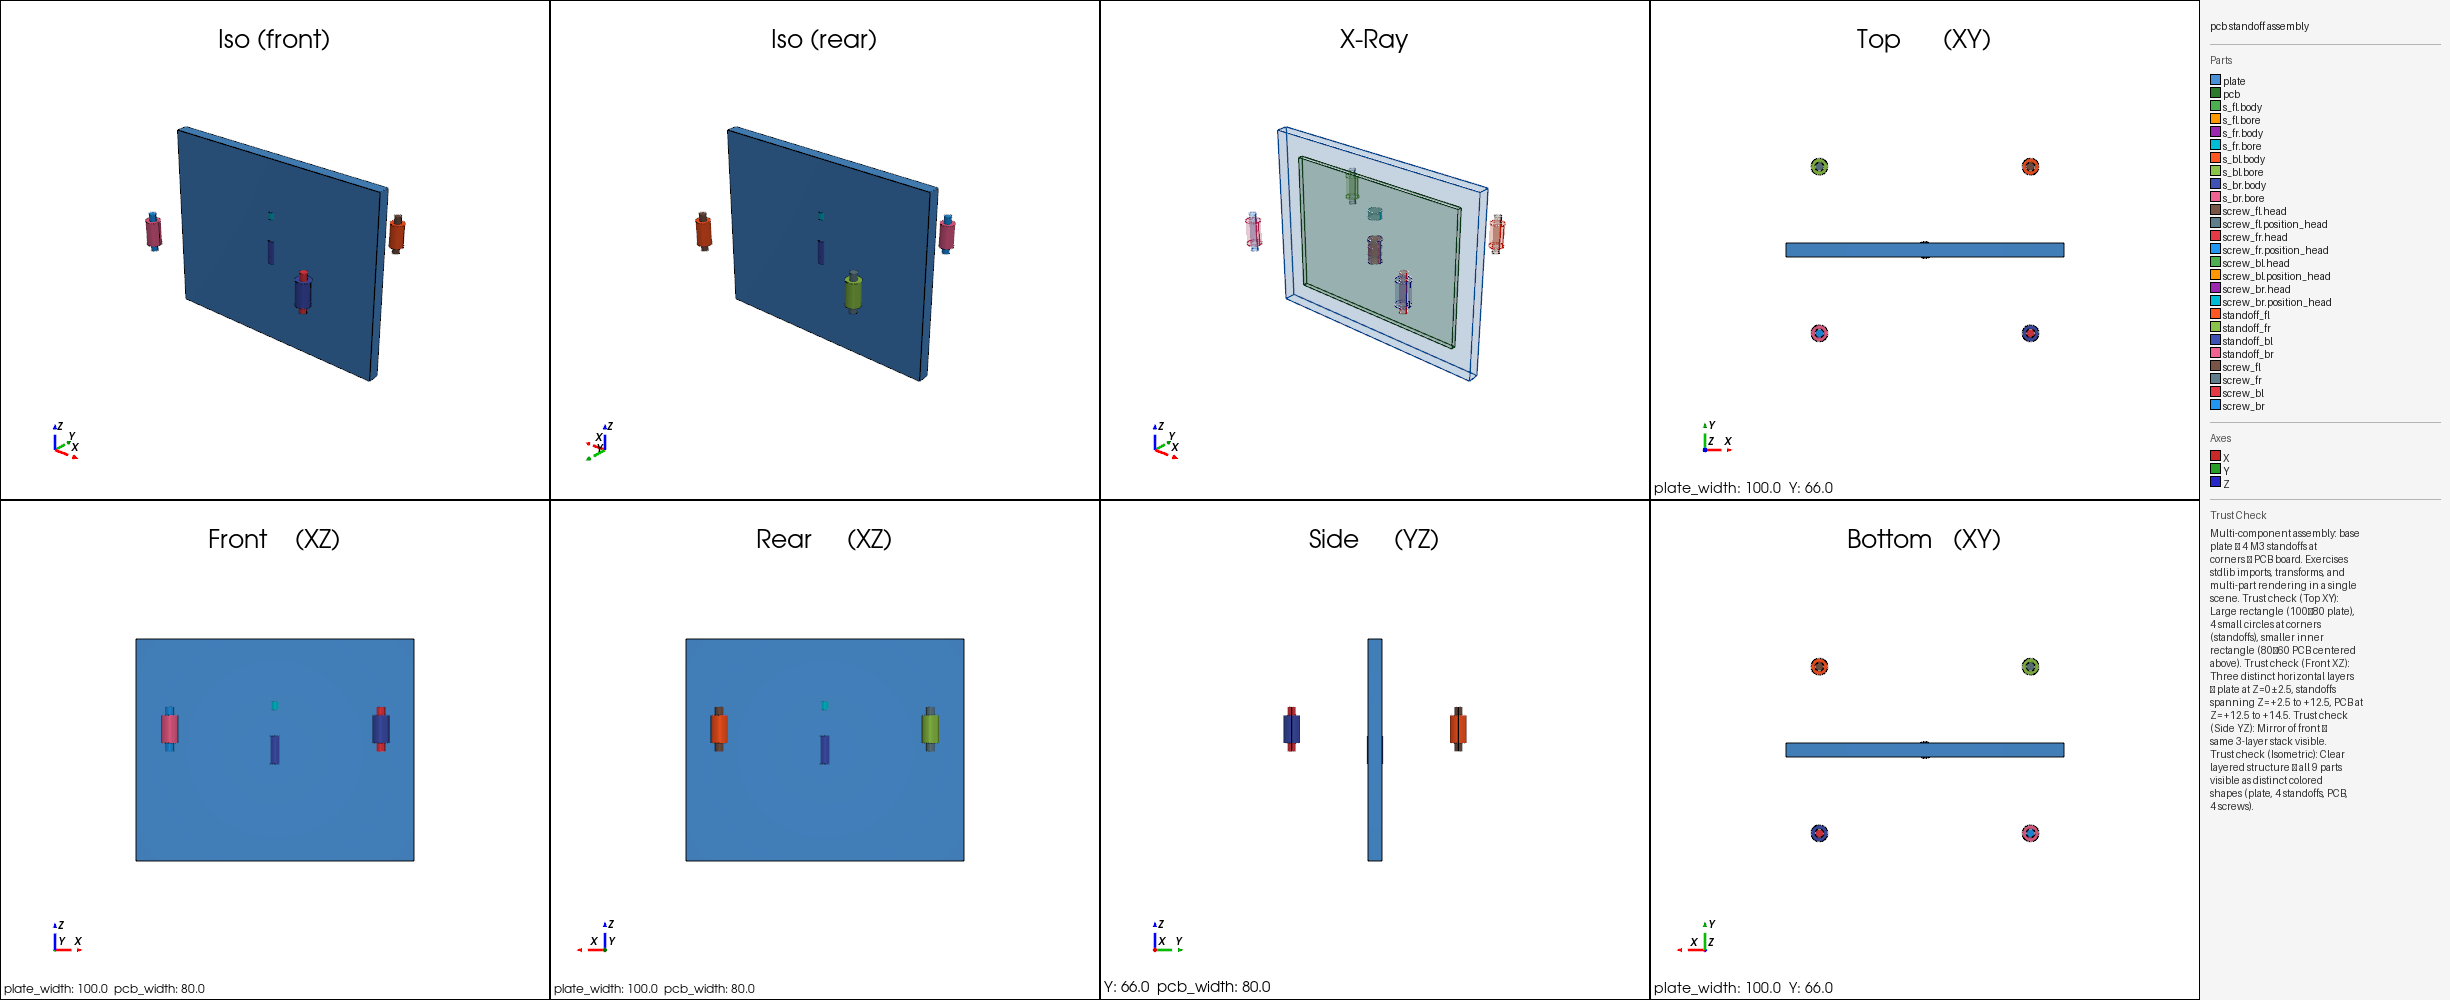
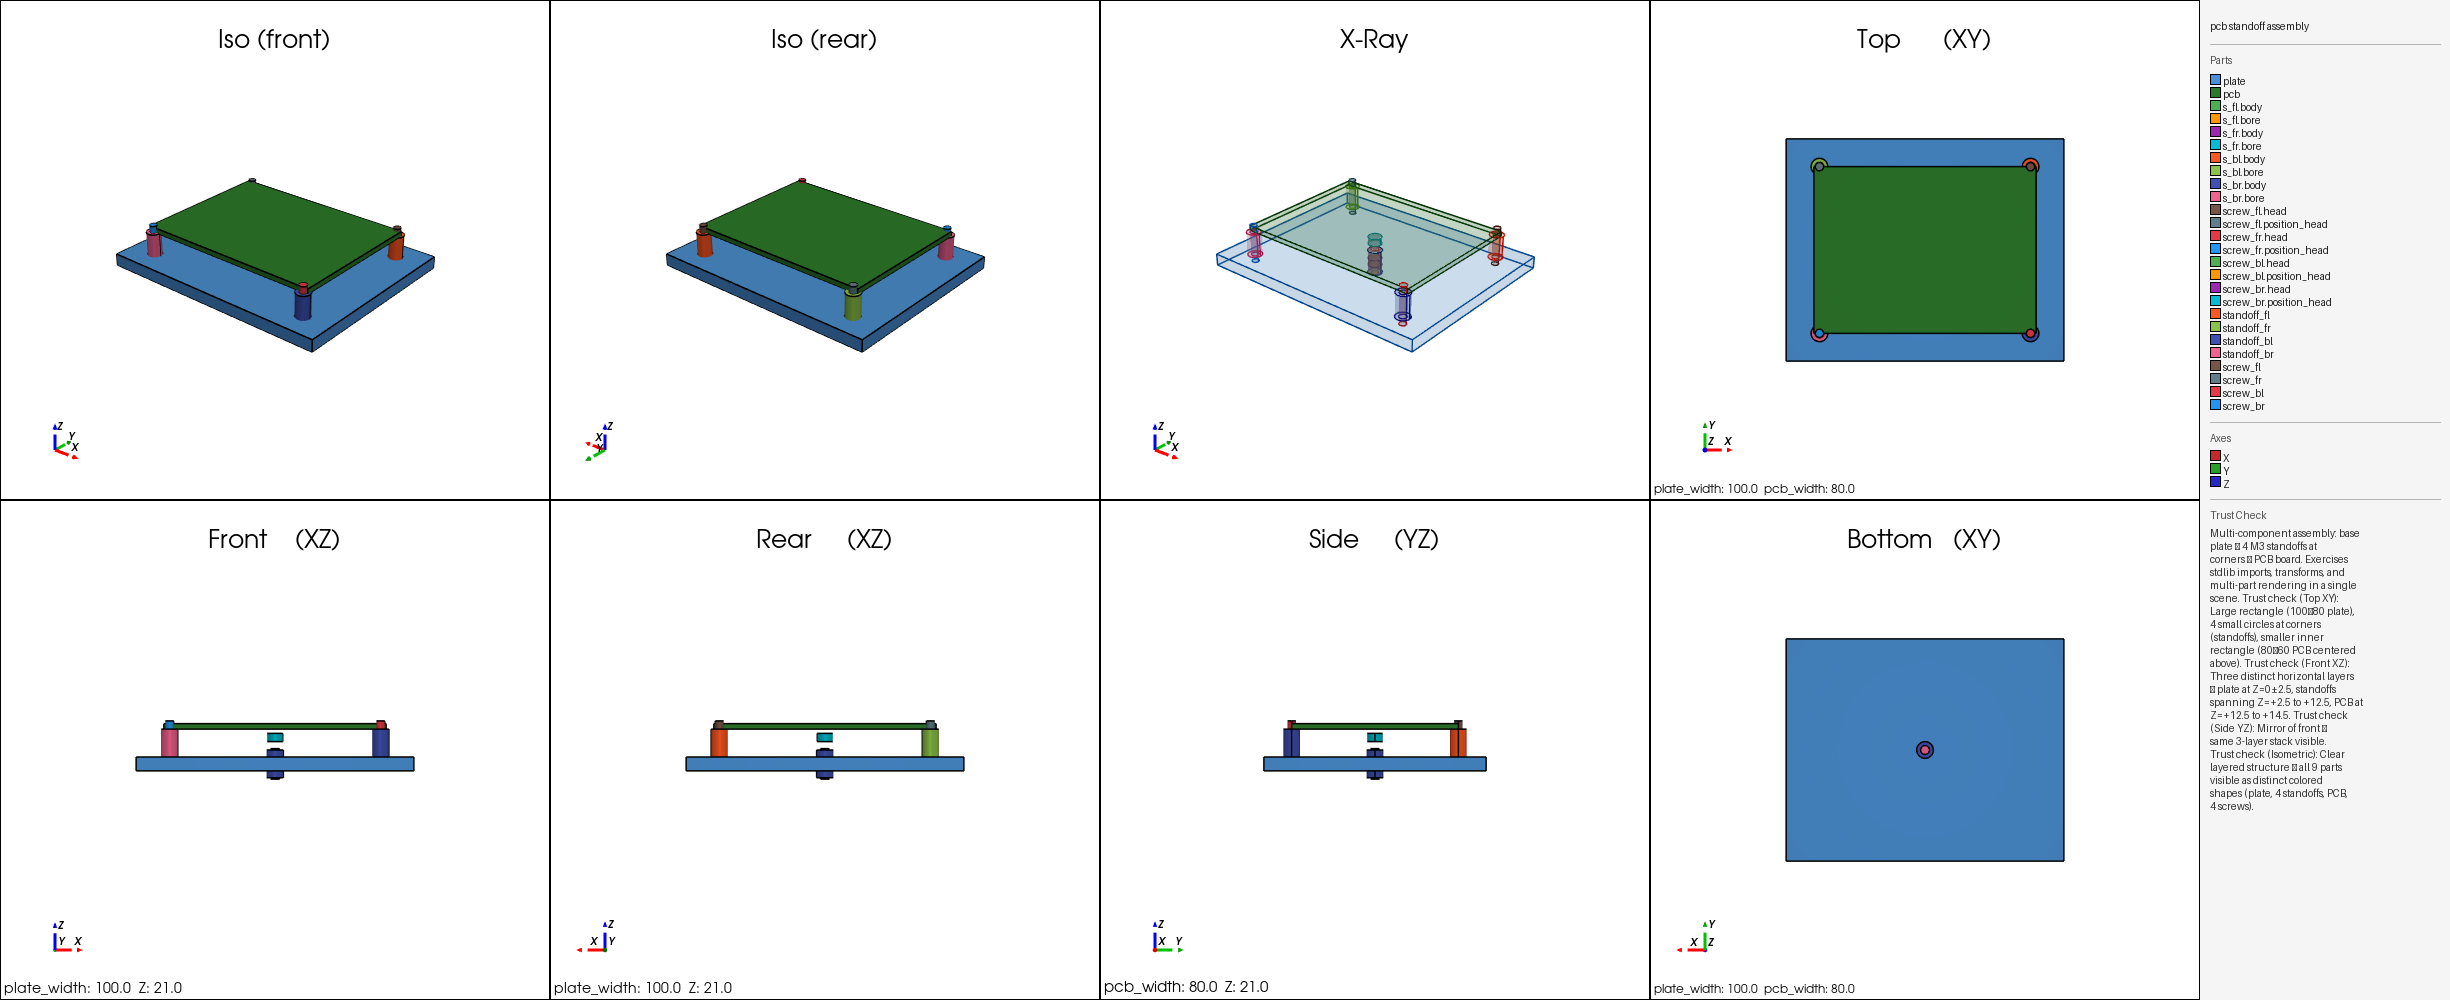
fix(trust): correct plate/pcb axis swap in pcb_standoff_assembly
The box primitive maps width->X, depth->Y, height->Z, but the plate
and pcb parts had height/depth swapped, rendering as a vertical wall
instead of a flat plate. Found via the trust-gallery visual review
(a volume-only check can't catch this — swapping which axis is
"thickness" doesn't change the volume). Documented as
KNOWN_LIMITATIONS.md #13.

diff --git a/KNOWN_LIMITATIONS.md b/KNOWN_LIMITATIONS.md
@@ -494,6 +494,14 @@ regression-risky). See `tiacad_core/tests/test_correctness/test_negative_contrac
 
 ---
 
+### 13. Fixed — `pcb_standoff_assembly.yaml`'s plate/PCB had `height`/`depth` swapped, rendering as a vertical wall instead of a flat plate
+
+**Found while doing the trust-gallery visual sign-off pass** (`docs/developer/VALIDATION_STRENGTHENING.md` section 4.7): the box primitive maps `width→X, depth→Y, height→Z` (`tiacad_core/geometry/cadquery_backend.py::create_box`, `cq.Workplane.box(width, depth, height)`). `examples/trust/pcb_standoff_assembly.yaml`'s `plate` and `pcb` parts assigned their in-plane footprint dimension (`plate_height`/`pcb_height`, meant to be the Y-axis extent) to the box's `height` parameter (which is actually Z, the thickness axis), and the thickness (`plate_thickness`/`pcb_thickness`) to `depth` (Y). The rendered result was a 100×5×80 vertical panel standing on edge, not the documented "flat plate (100×80×5) with PCB centered on top" — a "built, plausible-looking, but wrong" bug that a volume-only check can't catch (volume is identical regardless of axis assignment) but a visual render immediately exposes. The pre-existing hand-written `TestTrustPcbStandoffAssembly.test_plate_dimensions` had encoded the same swapped values, so it silently passed against the bug instead of catching it.
+
+**Fix applied:** swapped `height`/`depth` in both parts' `parameters:` blocks so the plate's thickness (Z) and footprint (Y) map to the correct axes; updated the hand-written dimension test to match the corrected geometry. Confirmed visually (re-rendered trust gallery) and re-ran `test_trust_contracts.py`. See `examples/trust/SIGNOFF.md`.
+
+---
+
 ## Test Health
 
 TiaCAD has broad automated coverage for parser behavior, geometry correctness, DAG rebuild behavior, visualization, and example contracts.